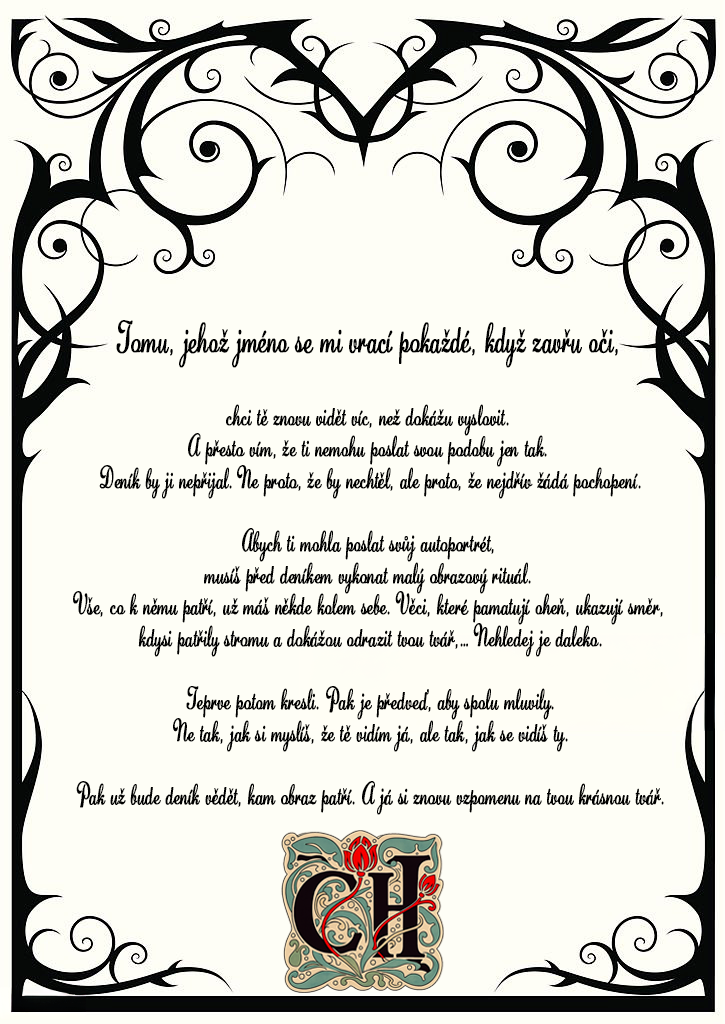
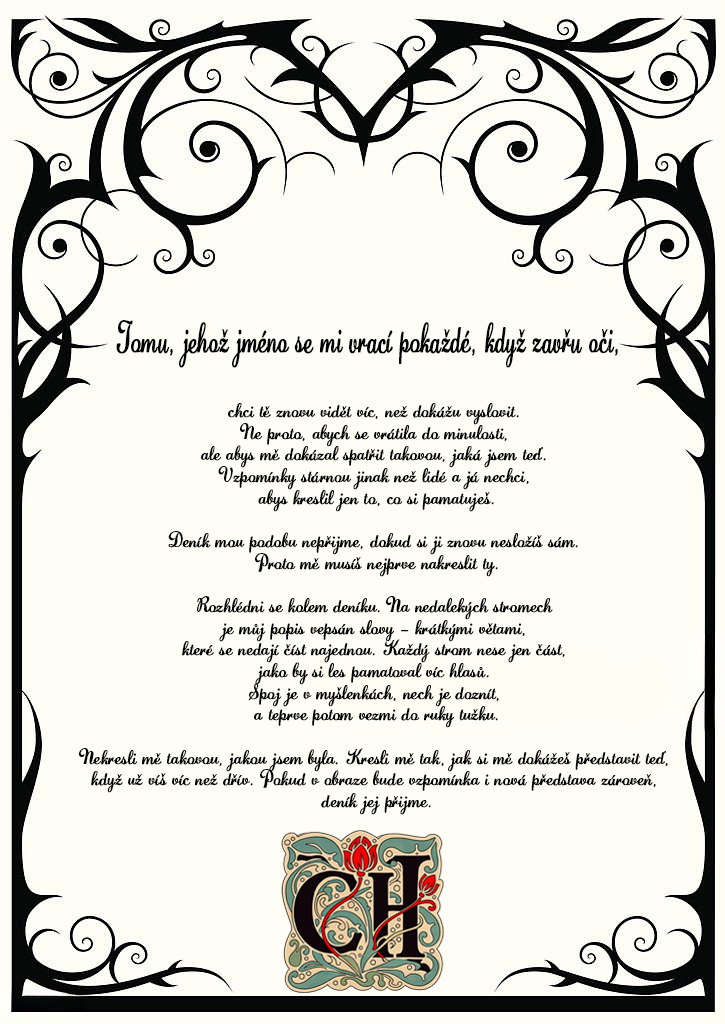
Update výprava: 04-02-2026 17:37:59

Changed region(s): [[0.091, 0.375, 0.9103, 0.8125], [0.1214, 0.4375, 0.1517, 0.4688], [0.091, 0.5625, 0.1214, 0.5938]]

diff --git a/Hry/Hra 2.md b/Hry/Hra 2.md
@@ -1,8 +1,10 @@
 # Hra 2
 ### Princip
-1. Děti si nakreslí autoportrét, každý 1 do týmu
-2. Děti se rozběhnou po okolí a hledají obrázky s polohami pro rituál
-3. Položí autoportréty do deníku, předvedou tanec a tím je pošlou
-4. S těmi autoportréty my jim tam dáme tajně mapu k další šifře(dopisu)
+1. Děti po přečtení dopisu zjistí, že mají hledat na nedalekých stromech popis Charllote a zapamatovat si ho 
+2. Oni vždy doběhnou ke stromu > zapamatují si část popisu a dojdou do domečku napsat si to nebo si to budou muset zapamatovat a pak kreslit až vevnitř a můžeme hodnotit třeba kdo má nejlepší podobu (Charllote)
+3. Položí nákresy do deníku a my (vedoucí) si vezmeme ten deník jakože na "pozorování" a po svačině do něj dáme mapu k dalšímu
 ### Příklad obrázku
-[[Stickman.png]]
+Todo: více obrázků
+
+### Jednoduše
+Přečtou dopis > jdou ven hledat vzhled (možnosti viz. Princip 2.) > nakreslí ho (možnosti viz. Princip 2.) > vloží do deníku > svačina > dáme jim deník s mapou a jakože "WTF jak se to tady vzalo? :O"

diff --git a/Postavy/Charllote.md b/Postavy/Charllote.md
@@ -1,1 +1,2 @@
 # Charllote
+Todo: popis Charllote pro hru 2
